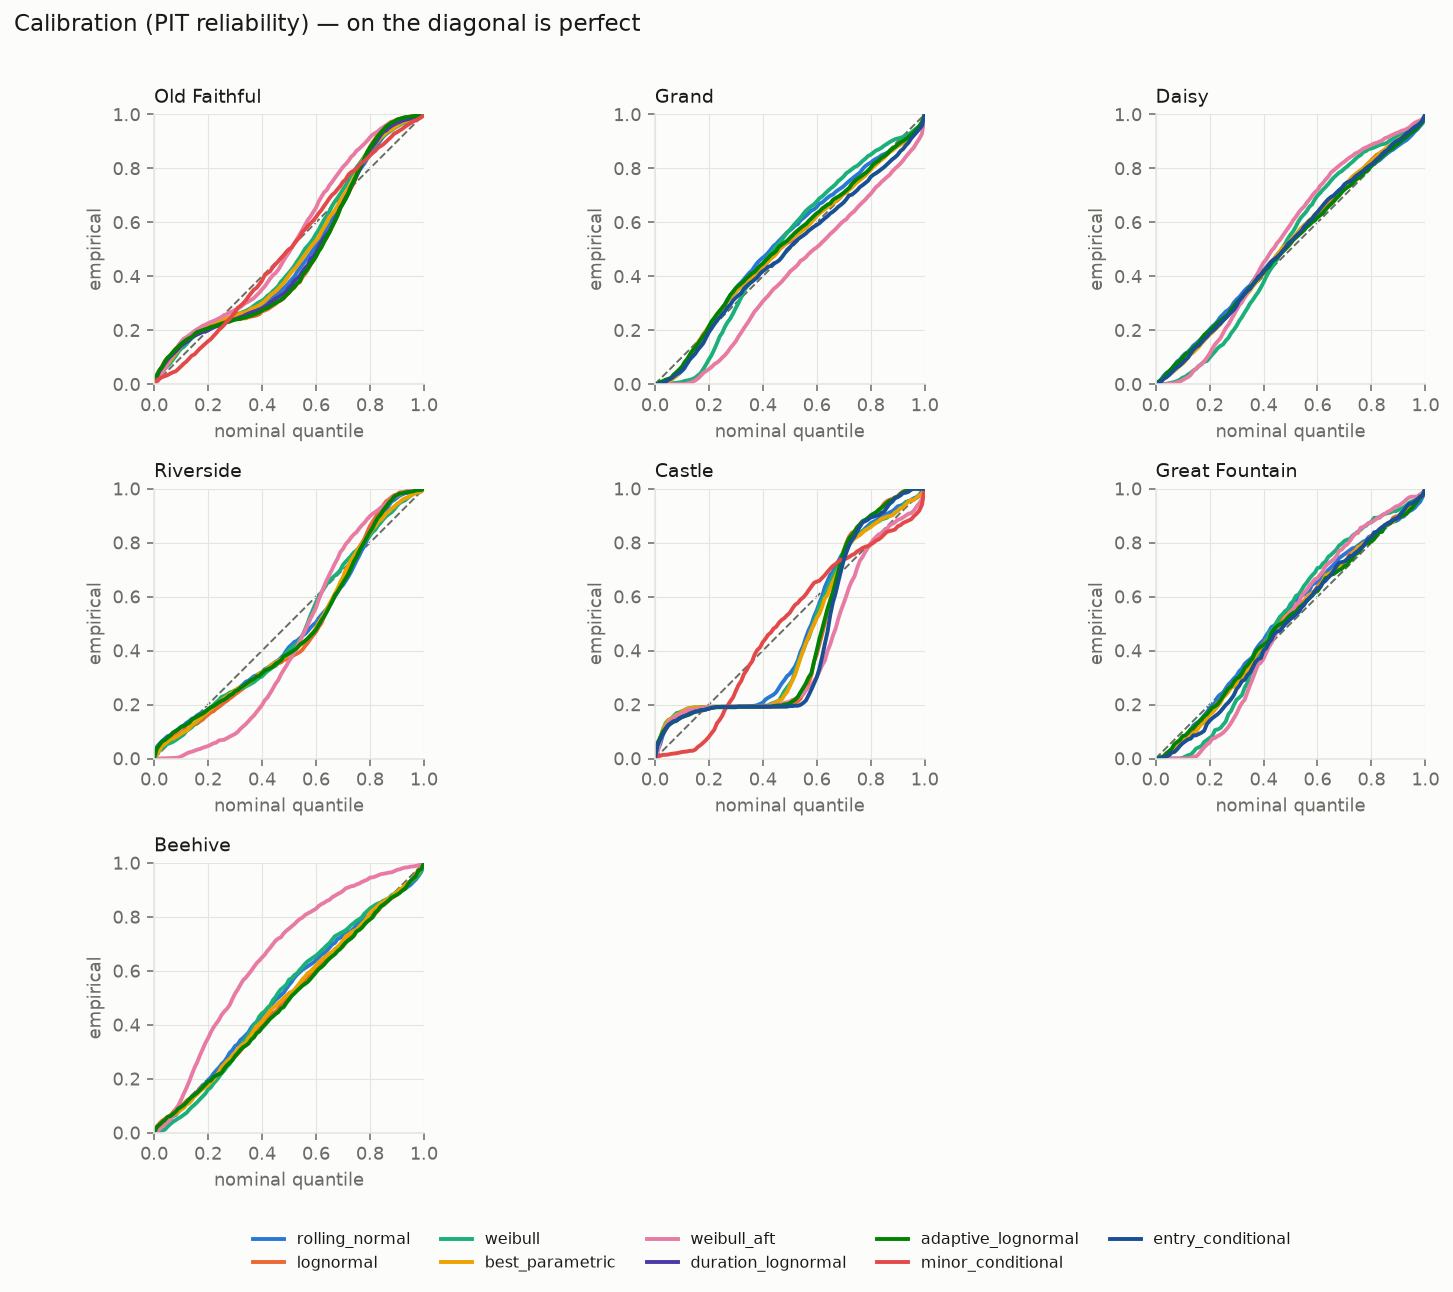
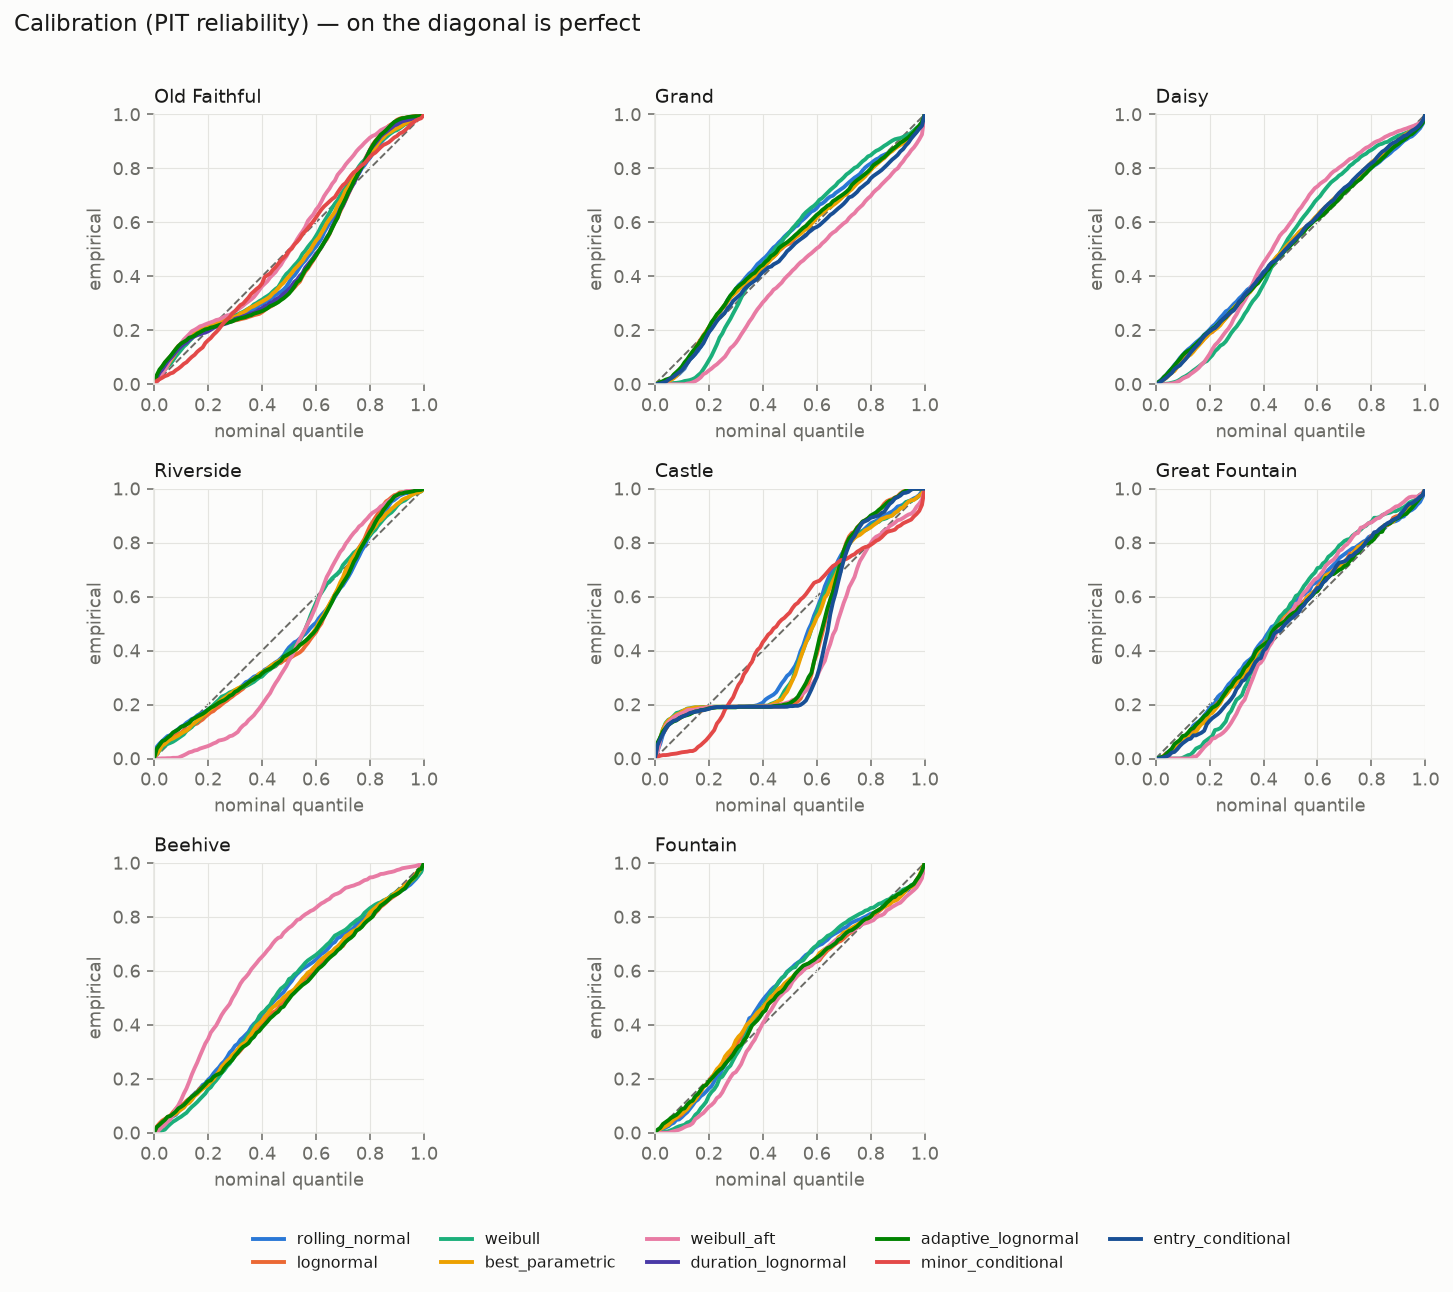
Add Fountain, the eighth target geyser
Selected by sweeping all 491 logged geysers for interval tightness and
logging density: log-sd 0.207 on a 305-minute median -- the same tier as
Castle (0.203) and Beehive (0.206) -- with 916 entries over two years,
unimodal, and stable (last ~120 intervals fit log-sd 0.201). Neither the
NPS nor Geysers.net predicts it.

Walk-forward over 3 years (707 predictions): adaptive_lognormal wins CRPS
35.2 vs best_parametric 37.3, a 5.5% margin that stays inside the noise
rule, so Fountain serves the default rather than pinning a leaderboard
choice. Honest coverage is the worst in the set (45.9% of raw gaps
rejected, honest 90% band 47.8%) and Morning is unmodelled; both recorded
in docs/findings/model-results.md with the sweep and the ruled-out
candidates (Lion is the strong runner-up, pending a series-aware model).

diff --git a/src/geyser_ai/static/index.html b/src/geyser_ai/static/index.html
@@ -445,7 +445,7 @@ const HOURS = 12;            // future span of the shared axis
 const PAST_H = 1;            // shown before "now", so the marker sits inside
 const SPAN = PAST_H + HOURS; // total hours across the ribbon
 const REFRESH_MS = 5 * 60 * 1000;
-const TARGETS = new Set(["Old Faithful","Grand","Daisy","Riverside","Castle","Great Fountain","Beehive"]);
+const TARGETS = new Set(["Old Faithful","Grand","Daisy","Riverside","Castle","Great Fountain","Beehive","Fountain"]);
 
 let lastData = null;
 

diff --git a/src/geyser_ai/mcp_server.py b/src/geyser_ai/mcp_server.py
@@ -34,7 +34,7 @@ mcp = MCPServer(
 )
 
 GeyserName = Literal[
-    "Old Faithful", "Grand", "Daisy", "Riverside", "Castle", "Great Fountain", "Beehive"
+    "Old Faithful", "Grand", "Daisy", "Riverside", "Castle", "Great Fountain", "Beehive", "Fountain"
 ]
 
 

diff --git a/tests/conftest.py b/tests/conftest.py
@@ -65,6 +65,7 @@ GEYSER_SPECS = {
     "Castle": (820.0, 0.18),
     "Great Fountain": (690.0, 0.14),
     "Beehive": (1100.0, 0.22),
+    "Fountain": (305.0, 0.21),
 }
 
 # Anchored just before "now" so the recent-eruptions endpoint and data-age

diff --git a/src/geyser_ai/config.py b/src/geyser_ai/config.py
@@ -31,4 +31,5 @@ TARGET_GEYSERS: tuple[str, ...] = (
     "Castle",
     "Great Fountain",
     "Beehive",
+    "Fountain",
 )

diff --git a/reports/calibration_report.md b/reports/calibration_report.md
@@ -1,6 +1,6 @@
 # Calibration report
 
-Walk-forward backtest, last 3 years. Generated 2026-08-04 from the GeyserTimes complete archive.
+Walk-forward backtest, last 3 years. Generated 2026-08-09 from the GeyserTimes complete archive.
 
 At every evaluated eruption each model sees **only** intervals strictly earlier than the one it is predicting. All models are scored on the same set of target eruptions, so no model benefits from skipping hard cases.
 
@@ -13,42 +13,42 @@ At every evaluated eruption each model sees **only** intervals strictly earlier 
 
 | Geyser | Model | n | CRPS (min) | MAE (min) | 50% cov | 90% cov |
 |---|---|---:|---:|---:|---:|---:|
-| Old Faithful | **minor_conditional** | 2,000 | 4.5 | 6.1 | 58.9% · | 93.3% |
-| Old Faithful | duration_lognormal | 2,000 | 8.2 | 11.6 | 55.1% · | 89.3% |
-| Old Faithful | weibull | 2,000 | 8.8 | 12.0 | 57.0% · | 91.2% |
-| Old Faithful | best_parametric | 2,000 | 8.8 | 12.2 | 54.4% | 90.8% |
-| Old Faithful | rolling_normal | 2,000 | 8.9 | 12.4 | 53.8% | 89.8% |
-| Old Faithful | weibull_aft | 2,000 | 8.9 | 11.9 | 61.6% ⚠ | 91.0% |
-| Old Faithful | lognormal | 2,000 | 9.0 | 12.7 | 54.4% | 89.3% |
-| Old Faithful | adaptive_lognormal | 2,000 | 9.0 | 12.7 | 54.9% | 89.4% |
-| Grand | **adaptive_lognormal** | 2,000 | 38.8 | 54.2 | 47.8% | 90.6% |
-| Grand | lognormal | 2,000 | 39.3 | 55.0 | 47.2% | 91.0% |
-| Grand | rolling_normal | 2,000 | 39.3 | 54.9 | 49.2% | 90.6% |
-| Grand | best_parametric | 2,000 | 39.9 | 55.8 | 46.7% | 91.3% |
-| Grand | weibull | 2,000 | 40.8 | 55.8 | 61.8% ⚠ | 93.0% |
-| Grand | entry_conditional | 2,000 | 42.0 | 58.5 | 46.0% | 89.5% |
-| Grand | weibull_aft | 2,000 | 46.7 | 62.8 | 55.5% · | 86.7% |
-| Daisy | **adaptive_lognormal** | 2,000 | 3.1 | 4.3 | 51.9% | 88.6% |
-| Daisy | lognormal | 2,000 | 3.2 | 4.3 | 54.1% | 90.0% |
-| Daisy | rolling_normal | 2,000 | 3.2 | 4.3 | 51.4% | 87.5% |
-| Daisy | best_parametric | 2,000 | 3.2 | 4.4 | 54.9% | 90.1% |
-| Daisy | entry_conditional | 2,000 | 3.4 | 4.7 | 54.1% | 91.1% |
-| Daisy | weibull | 2,000 | 3.5 | 4.3 | 69.6% ⚠ | 94.1% |
-| Daisy | weibull_aft | 2,000 | 5.1 | 6.9 | 67.0% ⚠ | 95.9% · |
-| Riverside | **adaptive_lognormal** | 1,581 | 12.8 | 17.5 | 53.3% | 91.1% |
-| Riverside | best_parametric | 1,581 | 12.8 | 17.5 | 54.9% | 91.1% |
-| Riverside | lognormal | 1,581 | 12.9 | 17.8 | 56.9% · | 92.1% |
-| Riverside | rolling_normal | 1,581 | 12.9 | 17.3 | 51.6% | 90.4% |
-| Riverside | weibull | 1,581 | 14.2 | 17.4 | 54.3% | 92.0% |
-| Riverside | weibull_aft | 1,581 | 18.6 | 22.8 | 77.0% ⚠ | 99.2% · |
-| Castle | **minor_conditional** | 874 | 77.2 | 101.2 | 60.9% ⚠ | 87.2% |
-| Castle | weibull | 874 | 171.8 | 220.7 | 63.5% ⚠ | 81.1% · |
-| Castle | best_parametric | 874 | 172.5 | 222.6 | 63.0% ⚠ | 81.7% · |
-| Castle | rolling_normal | 874 | 173.6 | 224.4 | 64.0% ⚠ | 83.6% · |
-| Castle | weibull_aft | 874 | 177.6 | 248.0 | 51.6% | 77.7% ⚠ |
-| Castle | lognormal | 874 | 186.0 | 259.5 | 66.7% ⚠ | 87.2% |
-| Castle | entry_conditional | 874 | 186.3 | 267.4 | 65.2% ⚠ | 87.4% |
-| Castle | adaptive_lognormal | 874 | 187.1 | 258.9 | 66.7% ⚠ | 87.3% |
+| Old Faithful | **minor_conditional** | 2,000 | 4.7 | 6.4 | 57.5% · | 92.8% |
+| Old Faithful | duration_lognormal | 2,000 | 8.2 | 11.6 | 54.5% | 89.8% |
+| Old Faithful | best_parametric | 2,000 | 8.9 | 12.4 | 54.1% | 90.7% |
+| Old Faithful | weibull | 2,000 | 8.9 | 12.2 | 55.9% · | 90.5% |
+| Old Faithful | weibull_aft | 2,000 | 9.1 | 12.2 | 61.9% ⚠ | 91.5% |
+| Old Faithful | lognormal | 2,000 | 9.1 | 12.9 | 54.2% | 89.9% |
+| Old Faithful | rolling_normal | 2,000 | 9.1 | 12.6 | 53.8% | 89.3% |
+| Old Faithful | adaptive_lognormal | 2,000 | 9.2 | 12.9 | 54.6% | 89.9% |
+| Grand | **adaptive_lognormal** | 2,000 | 38.9 | 54.4 | 47.4% | 90.5% |
+| Grand | rolling_normal | 2,000 | 39.4 | 55.1 | 49.0% | 90.8% |
+| Grand | lognormal | 2,000 | 39.4 | 55.3 | 46.9% | 91.1% |
+| Grand | best_parametric | 2,000 | 40.0 | 56.1 | 46.2% | 91.2% |
+| Grand | weibull | 2,000 | 40.8 | 56.0 | 61.9% ⚠ | 93.0% |
+| Grand | entry_conditional | 2,000 | 42.1 | 58.7 | 45.7% | 89.4% |
+| Grand | weibull_aft | 2,000 | 47.0 | 63.1 | 55.4% · | 86.7% |
+| Daisy | **adaptive_lognormal** | 2,000 | 3.1 | 4.3 | 51.3% | 88.1% |
+| Daisy | lognormal | 2,000 | 3.1 | 4.3 | 53.5% | 90.3% |
+| Daisy | rolling_normal | 2,000 | 3.2 | 4.3 | 49.9% | 87.1% |
+| Daisy | best_parametric | 2,000 | 3.2 | 4.4 | 53.8% | 90.8% |
+| Daisy | entry_conditional | 2,000 | 3.4 | 4.7 | 53.3% | 90.5% |
+| Daisy | weibull | 2,000 | 3.5 | 4.3 | 68.4% ⚠ | 93.8% |
+| Daisy | weibull_aft | 2,000 | 5.1 | 6.8 | 67.2% ⚠ | 95.5% · |
+| Riverside | **adaptive_lognormal** | 1,576 | 12.8 | 17.5 | 53.4% | 91.1% |
+| Riverside | best_parametric | 1,576 | 12.8 | 17.5 | 54.8% | 91.1% |
+| Riverside | lognormal | 1,576 | 12.9 | 17.8 | 56.8% · | 92.1% |
+| Riverside | rolling_normal | 1,576 | 12.9 | 17.3 | 51.7% | 90.4% |
+| Riverside | weibull | 1,576 | 14.2 | 17.4 | 54.1% | 91.9% |
+| Riverside | weibull_aft | 1,576 | 18.6 | 22.7 | 77.8% ⚠ | 99.2% · |
+| Castle | **minor_conditional** | 865 | 77.6 | 101.6 | 60.8% ⚠ | 87.2% |
+| Castle | weibull | 865 | 172.4 | 221.1 | 63.6% ⚠ | 81.0% · |
+| Castle | best_parametric | 865 | 173.0 | 223.1 | 63.2% ⚠ | 81.6% · |
+| Castle | rolling_normal | 865 | 174.0 | 224.6 | 64.2% ⚠ | 83.5% · |
+| Castle | weibull_aft | 865 | 178.3 | 248.7 | 51.4% | 77.3% ⚠ |
+| Castle | lognormal | 865 | 186.5 | 259.9 | 66.6% ⚠ | 87.1% |
+| Castle | entry_conditional | 865 | 186.7 | 267.8 | 65.3% ⚠ | 87.3% |
+| Castle | adaptive_lognormal | 865 | 187.6 | 259.4 | 66.6% ⚠ | 87.2% |
 | Great Fountain | **lognormal** | 408 | 45.6 | 62.9 | 55.1% · | 91.2% |
 | Great Fountain | best_parametric | 408 | 45.7 | 63.0 | 55.9% · | 91.9% |
 | Great Fountain | entry_conditional | 408 | 46.0 | 63.1 | 58.3% · | 93.4% |
@@ -56,12 +56,18 @@ At every evaluated eruption each model sees **only** intervals strictly earlier 
 | Great Fountain | rolling_normal | 408 | 46.4 | 63.4 | 54.7% | 89.5% |
 | Great Fountain | weibull | 408 | 48.6 | 63.9 | 71.6% ⚠ | 95.3% · |
 | Great Fountain | weibull_aft | 408 | 48.8 | 63.8 | 74.0% ⚠ | 97.1% · |
-| Beehive | **rolling_normal** | 1,179 | 120.4 | 166.9 | 51.5% | 87.4% |
-| Beehive | adaptive_lognormal | 1,179 | 120.8 | 167.2 | 52.4% | 87.4% |
-| Beehive | lognormal | 1,179 | 123.8 | 171.8 | 51.3% | 87.4% |
-| Beehive | weibull | 1,179 | 125.6 | 174.8 | 56.5% · | 90.8% |
-| Beehive | best_parametric | 1,179 | 126.4 | 177.0 | 51.0% | 88.5% |
-| Beehive | weibull_aft | 1,179 | 169.6 | 248.5 | 48.3% | 94.5% |
+| Beehive | **rolling_normal** | 1,174 | 119.8 | 166.1 | 51.7% | 87.5% |
+| Beehive | adaptive_lognormal | 1,174 | 120.1 | 166.3 | 52.6% | 87.5% |
+| Beehive | lognormal | 1,174 | 123.5 | 171.2 | 51.4% | 87.6% |
+| Beehive | weibull | 1,174 | 125.3 | 174.3 | 56.6% · | 90.9% |
+| Beehive | best_parametric | 1,174 | 126.3 | 176.7 | 50.9% | 88.4% |
+| Beehive | weibull_aft | 1,174 | 169.4 | 248.2 | 48.5% | 94.4% |
+| Fountain | **adaptive_lognormal** | 707 | 35.2 | 48.4 | 52.5% | 86.8% |
+| Fountain | rolling_normal | 707 | 35.7 | 49.2 | 55.2% · | 88.8% |
+| Fountain | lognormal | 707 | 36.4 | 50.8 | 50.9% | 88.4% |
+| Fountain | best_parametric | 707 | 37.3 | 52.1 | 51.1% | 88.0% |
+| Fountain | weibull | 707 | 37.8 | 52.4 | 59.8% · | 91.2% |
+| Fountain | weibull_aft | 707 | 38.4 | 52.1 | 61.0% ⚠ | 89.1% |
 
 **Bold** = best CRPS for that geyser.
 
@@ -69,19 +75,20 @@ At every evaluated eruption each model sees **only** intervals strictly earlier 
 
 | Geyser | Best by CRPS | CRPS | Baseline CRPS | Improvement |
 |---|---|---:|---:|---:|
-| Old Faithful | minor_conditional | 4.5 | 8.9 | 49.2% |
-| Grand | adaptive_lognormal | 38.8 | 39.3 | 1.4% |
-| Daisy | adaptive_lognormal | 3.1 | 3.2 | 1.5% |
-| Riverside | adaptive_lognormal | 12.8 | 12.9 | 1.4% |
-| Castle | minor_conditional | 77.2 | 173.6 | 55.5% |
+| Old Faithful | minor_conditional | 4.7 | 9.1 | 48.6% |
+| Grand | adaptive_lognormal | 38.9 | 39.4 | 1.3% |
+| Daisy | adaptive_lognormal | 3.1 | 3.2 | 1.3% |
+| Riverside | adaptive_lognormal | 12.8 | 12.9 | 1.3% |
+| Castle | minor_conditional | 77.6 | 174.0 | 55.4% |
 | Great Fountain | lognormal | 45.6 | 46.4 | 1.8% |
-| Beehive | rolling_normal | 120.4 | 120.4 | 0.0% |
+| Beehive | rolling_normal | 119.8 | 119.8 | 0.0% |
+| Fountain | adaptive_lognormal | 35.2 | 35.7 | 1.3% |
 
 ## Known gaps
 
 - **Castle** — the best model (`minor_conditional`) is far too wide: its nominal 50% interval actually covers 61%. The predicted distribution is the wrong *shape*, not just the wrong width.
 
-- **The covariate model did not earn its complexity.** `weibull_aft` (lifelines Weibull AFT with previous-interval, clock-time, seasonal and entry-flag covariates) ranks in the bottom half on 7 of 7 geysers: Old Faithful 6/8, Grand 7/7, Daisy 7/7, Riverside 6/6, Castle 5/8, Great Fountain 7/7, Beehive 6/6. The simple rolling lognormal/Weibull fits beat it nearly everywhere, and the dashboard-style baseline is competitive. Reported as-is.
+- **The covariate model did not earn its complexity.** `weibull_aft` (lifelines Weibull AFT with previous-interval, clock-time, seasonal and entry-flag covariates) ranks in the bottom half on 8 of 8 geysers: Old Faithful 5/8, Grand 7/7, Daisy 7/7, Riverside 6/6, Castle 5/8, Great Fountain 7/7, Beehive 6/6, Fountain 6/6. The simple rolling lognormal/Weibull fits beat it nearly everywhere, and the dashboard-style baseline is competitive. Reported as-is.
 
 
 ### Honest coverage: scoring the intervals the filter throws away
@@ -91,13 +98,14 @@ Everything above is measured only on intervals that passed the validity filter, 
 
 | Geyser | n (all) | % filter-rejected | 50% cov | 90% cov | 90% cov (filtered) |
 |---|---:|---:|---:|---:|---:|
-| Old Faithful | 1,500 | 14.0% | 46.1% | 76.0% | 89.3% |
-| Grand | 1,500 | 19.3% | 38.2% | 74.1% | 91.0% |
-| Daisy | 1,500 | 21.4% | 42.6% | 70.0% | 90.0% |
-| Riverside | 1,500 | 37.2% | 35.8% | 57.5% | 92.1% |
-| Castle | 1,249 | 30.0% | 51.2% | 73.2% | 87.2% |
-| Great Fountain | 722 | 43.5% | 31.2% | 51.5% | 91.2% |
-| Beehive | 1,284 | 8.2% | 47.1% | 80.3% | 87.4% |
+| Old Faithful | 1,500 | 13.3% | 46.6% | 76.5% | 89.9% |
+| Grand | 1,500 | 18.9% | 38.2% | 74.0% | 91.1% |
+| Daisy | 1,500 | 21.0% | 43.4% | 71.1% | 90.3% |
+| Riverside | 1,500 | 37.4% | 35.5% | 57.7% | 92.1% |
+| Castle | 1,240 | 30.2% | 51.0% | 73.0% | 87.1% |
+| Great Fountain | 719 | 43.3% | 31.3% | 51.7% | 91.2% |
+| Beehive | 1,279 | 8.2% | 47.2% | 80.4% | 87.6% |
+| Fountain | 1,307 | 45.9% | 27.5% | 47.8% | 88.4% |
 
 The drop between the last two columns is the real-world penalty. Treat the headline table as an upper bound on field reliability, and see the renewal/missed-eruption handling in `predict` (README) for how the CLI compensates at prediction time.
 
@@ -112,13 +120,13 @@ Each decision time is scored **twice, identically**, with neighbour conditioning
 
 | Geyser | Regime | n | CRPS off | CRPS on | Δ | 90% off | 90% on |
 |---|---|---:|---:|---:|---:|---:|---:|
-| Grand | **overall** | 21,631 | 44.6 | 44.6 | +0.1% | 90% | 90% |
-| Grand | base | 18,228 | 43.9 | 43.9 | +0.0% | 90% | 90% |
-| Grand | precursor_shifted | 1,687 | 53.8 | 54.6 | +1.3% | 87% | 86% |
-| Grand | turban_gated | 1,716 | 42.3 | 42.5 | +0.3% | 92% | 91% |
-| Beehive | **overall** | 30,965 | 118.2 | 114.7 | -2.9% | 86% | 89% |
-| Beehive | base | 28,882 | 116.1 | 116.1 | +0.0% | 90% | 90% |
-| Beehive | indicator_active | 2,083 | 147.7 | 96.2 | -34.9% | 30% | 88% |
+| Grand | **overall** | 21,410 | 44.4 | 44.5 | +0.2% | 90% | 90% |
+| Grand | base | 18,008 | 43.7 | 43.7 | +0.0% | 90% | 90% |
+| Grand | precursor_shifted | 1,686 | 53.5 | 54.3 | +1.5% | 87% | 86% |
+| Grand | turban_gated | 1,716 | 42.3 | 42.4 | +0.2% | 93% | 92% |
+| Beehive | **overall** | 30,708 | 118.2 | 114.9 | -2.8% | 86% | 89% |
+| Beehive | base | 28,667 | 116.2 | 116.1 | -0.0% | 90% | 90% |
+| Beehive | indicator_active | 2,041 | 147.1 | 97.6 | -33.7% | 30% | 87% |
 
 **Beehive's Indicator works.** In the minutes it is running, CRPS falls by about a third and nominal 90% coverage goes from badly overconfident to roughly honest. The no-Indicator regime is untouched, which is the point — the conditioning adds information only when there is information to add. Residual error in that regime is dominated by cycles where the Beehive eruption itself was never logged (~6% of Indicator entries), not by the model.
 
@@ -147,6 +155,7 @@ Observation-entry mix since 2015 (% of valid intervals):
 | Beehive | 48.2% | 1.2% | 1.5% | 2.7% |
 | Castle | 48.7% | 20.2% | 1.1% | 11.2% |
 | Daisy | 58.2% | 24.2% | 0.6% | 6.9% |
+| Fountain | 0.0% | 57.1% | 0.7% | 5.2% |
 | Grand | 45.8% | 15.5% | 1.2% | 5.2% |
 | Great Fountain | 0.0% | 62.5% | 0.8% | 2.6% |
 | Old Faithful | 91.1% | 3.8% | 0.3% | 3.4% |

diff --git a/docs/findings/model-results.md b/docs/findings/model-results.md
@@ -12,13 +12,14 @@ Regenerate with `uv run geyser-ai backtest`; the full table lives in
 
 | Geyser | Best model | CRPS | MAE | 50% cov | 90% cov |
 |---|---|---:|---:|---:|---:|
-| Old Faithful | `minor_conditional` | 4.5 | 6.1 | 59% | 93% |
-| Grand | `adaptive_lognormal` | 38.8 | 54.2 | 48% | 91% |
-| Daisy | `adaptive_lognormal` | 3.1 | 4.3 | 52% | 89% |
+| Old Faithful | `minor_conditional` | 4.7 | 6.4 | 58% | 93% |
+| Grand | `adaptive_lognormal` | 38.9 | 54.4 | 47% | 91% |
+| Daisy | `adaptive_lognormal` | 3.1 | 4.3 | 51% | 88% |
 | Riverside | `adaptive_lognormal` | 12.8 | 17.5 | 53% | 91% |
-| Castle | `minor_conditional` | 77.2 | 101.2 | 61% | 87% |
+| Castle | `minor_conditional` | 77.6 | 101.6 | 61% | 87% |
 | Great Fountain | `lognormal` | 45.6 | 62.9 | 55% | 91% |
-| Beehive | `rolling_normal` | 120.4 | 166.9 | 52% | 87% |
+| Beehive | `rolling_normal` | 119.8 | 166.1 | 52% | 87% |
+| Fountain | `adaptive_lognormal` | 35.2 | 48.4 | 52% | 87% |
 
 ## The single most important result
 
@@ -29,6 +30,37 @@ and a further 30% on Castle from the per-regime fix. See
 [data-quality.md](data-quality.md).
 
 If you have a day to spend improving predictions, spend it on the data.
+
+## Fountain, the eighth geyser (added 2026-08-09)
+
+Selected by a sweep of all 491 logged geysers for interval tightness and
+logging density, calibrated against the existing seven (log-sd of the
+single-interval mode: Daisy 0.057 best, Beehive 0.206 worst). Fountain came in
+at **log-sd 0.207 on a 305-minute median** — statistically the same tier as
+Castle (0.203) and Beehive (0.206) — with 916 entries over two years, a
+unimodal interval distribution, and no drift (the most recent ~120 intervals
+fit log-sd 0.201). Neither the NPS nor Geysers.net predicts it, so this is
+coverage nobody else provides rather than a head-to-head.
+
+Two caveats, recorded up front:
+
+- **Honest coverage is the worst in the set**: 45.9% of raw gaps are rejected
+  by the validity filter (overnight logging is sparse at Fountain Paint Pots)
+  and the honest 90% band catches only 47.8%. A gazer scoring us against every
+  raw interval will see misses at nearly Great Fountain rates (51.7%).
+- **Morning is not modelled.** When Morning is active the two geysers interact
+  and Fountain's intervals shift; the current models will simply see wider
+  scatter. Nobody should be surprised if a future Morning active phase makes
+  Fountain's live numbers sag until that conditioning is added.
+
+The runner-up candidate from the same sweep was **Lion** (in-series log-sd
+0.133 at an 83-minute median, tighter than anything served except Daisy and
+Riverside) — but it needs a series-aware conditional model on the `initial`
+flag (after an initial, 82% of next eruptions arrive within 120 min; after a
+non-initial it is a 40/60 mixture of series-continue at ~80 min and series-end
+at 7.8–14.7 h). Not added yet. Ruled out with numbers: White Dome (0.297),
+Aurum (0.319), Sawmill (0.306), Grotto (0.298), Lone Star (regular but 176
+entries in two years — backcountry logging is too sparse to anchor on).
 
 ## What production serves, and why
 
@@ -46,14 +78,14 @@ two geysers:
 
 | | `best_parametric` | `minor_conditional` | change |
 |---|---:|---:|---:|
-| Old Faithful | 8.78 | **4.51** | −49% |
-| Castle | 172.50 | **77.23** | −55% |
+| Old Faithful | 8.9 | **4.7** | −47% |
+| Castle | 173.0 | **77.6** | −55% |
 
-The other five keep the default deliberately. Their walk-forward winners beat
-`best_parametric` by **0.2–4.8%** (Riverside 12.77 vs 12.81; Great Fountain 45.57
-vs 45.66; Daisy 3.13 vs 3.22; Grand 38.77 vs 39.93; Beehive 120.40 vs 126.44).
-That is inside the noise, and pinning a production choice on it would be
-overfitting the leaderboard rather than improving the forecast.
+The other six keep the default deliberately. Their walk-forward winners beat
+`best_parametric` by **0.2–5.5%** (Riverside 12.8 vs 12.8; Great Fountain 45.6
+vs 45.7; Daisy 3.1 vs 3.2; Grand 38.9 vs 40.0; Beehive 119.8 vs 126.3; Fountain
+35.2 vs 37.3). That is inside the noise, and pinning a production choice on it
+would be overfitting the leaderboard rather than improving the forecast.
 
 **If you regenerate the backtest, update this map — but only where the margin is
 decisive.**
@@ -124,7 +156,7 @@ failed.
 ### The covariate survival model does not earn its complexity
 
 `weibull_aft` (lifelines Weibull AFT with previous interval, hour of day, day of
-year, entry flags) ranks in the **bottom half on all seven geysers**. Simple
+year, entry flags) ranks in the **bottom half on all eight geysers**. Simple
 rolling lognormal/Weibull fits beat it nearly everywhere, and a plain rolling
 mean ± window — essentially what the existing community dashboard shows — wins
 outright on Beehive.

diff --git a/README.md b/README.md
@@ -108,13 +108,14 @@ is better):
 
 | Geyser | Best model | CRPS | MAE | 50% cov | 90% cov |
 |---|---|---:|---:|---:|---:|
-| Old Faithful | `minor_conditional` | 4.5 | 6.1 | 59% | 93% |
-| Grand | `adaptive_lognormal` | 38.8 | 54.2 | 48% | 91% |
-| Daisy | `adaptive_lognormal` | 3.1 | 4.3 | 52% | 89% |
+| Old Faithful | `minor_conditional` | 4.7 | 6.4 | 58% | 93% |
+| Grand | `adaptive_lognormal` | 38.9 | 54.4 | 47% | 91% |
+| Daisy | `adaptive_lognormal` | 3.1 | 4.3 | 51% | 88% |
 | Riverside | `adaptive_lognormal` | 12.8 | 17.5 | 53% | 91% |
-| Castle | `minor_conditional` | 77.2 | 101.2 | 61% | 87% |
+| Castle | `minor_conditional` | 77.6 | 101.6 | 61% | 87% |
 | Great Fountain | `lognormal` | 45.6 | 62.9 | 55% | 91% |
-| Beehive | `rolling_normal` | 120.4 | 166.9 | 52% | 87% |
+| Beehive | `rolling_normal` | 119.8 | 166.1 | 52% | 87% |
+| Fountain | `adaptive_lognormal` | 35.2 | 48.4 | 52% | 87% |
 
 **Each geyser is served by the model in that table**, not by a single global
 default — see `models.BEST_MODEL_BY_GEYSER`. That distinction is only load-bearing
@@ -329,7 +330,7 @@ single-page dashboard. Interactive API docs are at `/docs`.
 | Endpoint | What it returns |
 |---|---|
 | `GET /` | The dashboard |
-| `GET /api/predictions?hours=12&points=96` | All seven geysers, sorted soonest first: median, 50%/90% windows, expected missed eruptions, data age, and a probability-density curve for charting |
+| `GET /api/predictions?hours=12&points=96` | All eight geysers, sorted soonest first: median, 50%/90% windows, expected missed eruptions, data age, and a probability-density curve for charting |
 | `GET /api/predictions/{geyser}?points=240` | One geyser, denser curve |
 | `GET /api/eruptions/recent?hours=24` | Recently logged eruptions (`geyser=` and `targets_only=` filters) |
 | `GET /api/stats?geyser=Grand` | Interval statistics per geyser |

diff --git a/docs/findings/README.md b/docs/findings/README.md
@@ -31,7 +31,7 @@ any model change ever has, and the largest single improvement available at any
 point came from noticing the filter was *deleting* real data. The best covariate
 in the project — the `minor` flag — was already in the archive, recorded by
 volunteers. The most sophisticated model, a survival regression with covariates,
-finished in the bottom half on all seven geysers. Of the external forcings the
+finished in the bottom half on all eight geysers. Of the external forcings the
 literature proposes, exactly one is real and large enough to matter for
 prediction (wind on Daisy), and we have not implemented it yet.
 
